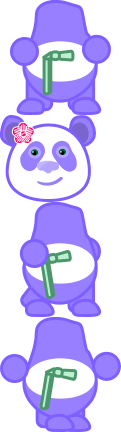
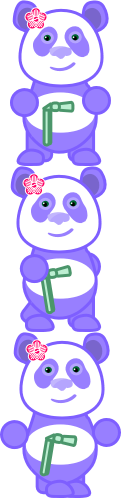
-walk

diff --git a/js/luchaweblibre.js b/js/luchaweblibre.js
@@ -80,11 +80,7 @@ function setup(){
     pWalk.anchor.set(.5,.5);
     pWalk.animationSpeed = .1;
     stage.addChild(pWalk);
-
-    let phead = new Sprite(TextureCache['spHead.png']);
-    phead.anchor.set(.5,.5);
-    phead.position.set(250, 190);
-    stage.addChild(phead);
+    pWalk.play();
 
     //set the game state
     state = play;
@@ -100,8 +96,8 @@ function gameLoop(){
 }
 
 function play(){
-    pWalk.x += pWalk.vx;
-    logo.x += 1;
+    //pWalk.x += pWalk.vx;
+    //logo.x += 1;
 }
 
 function end(){
